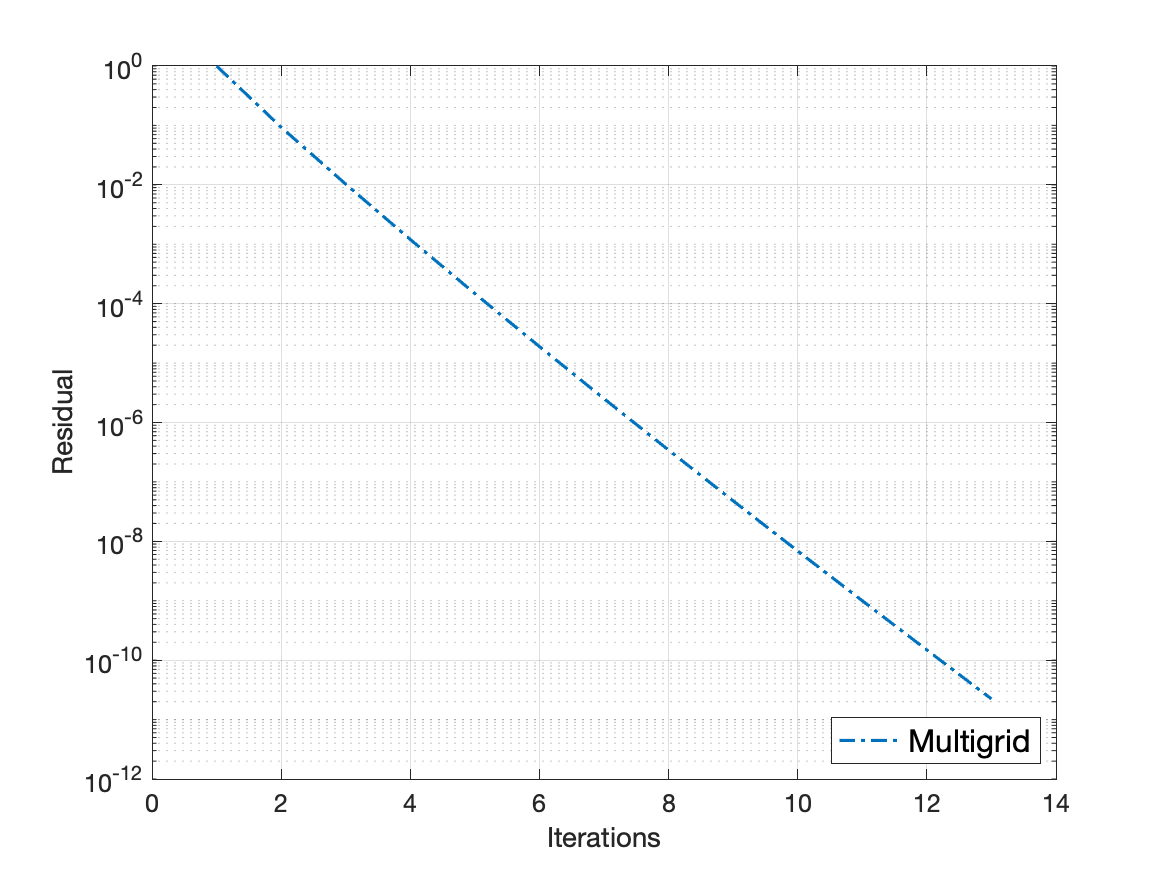
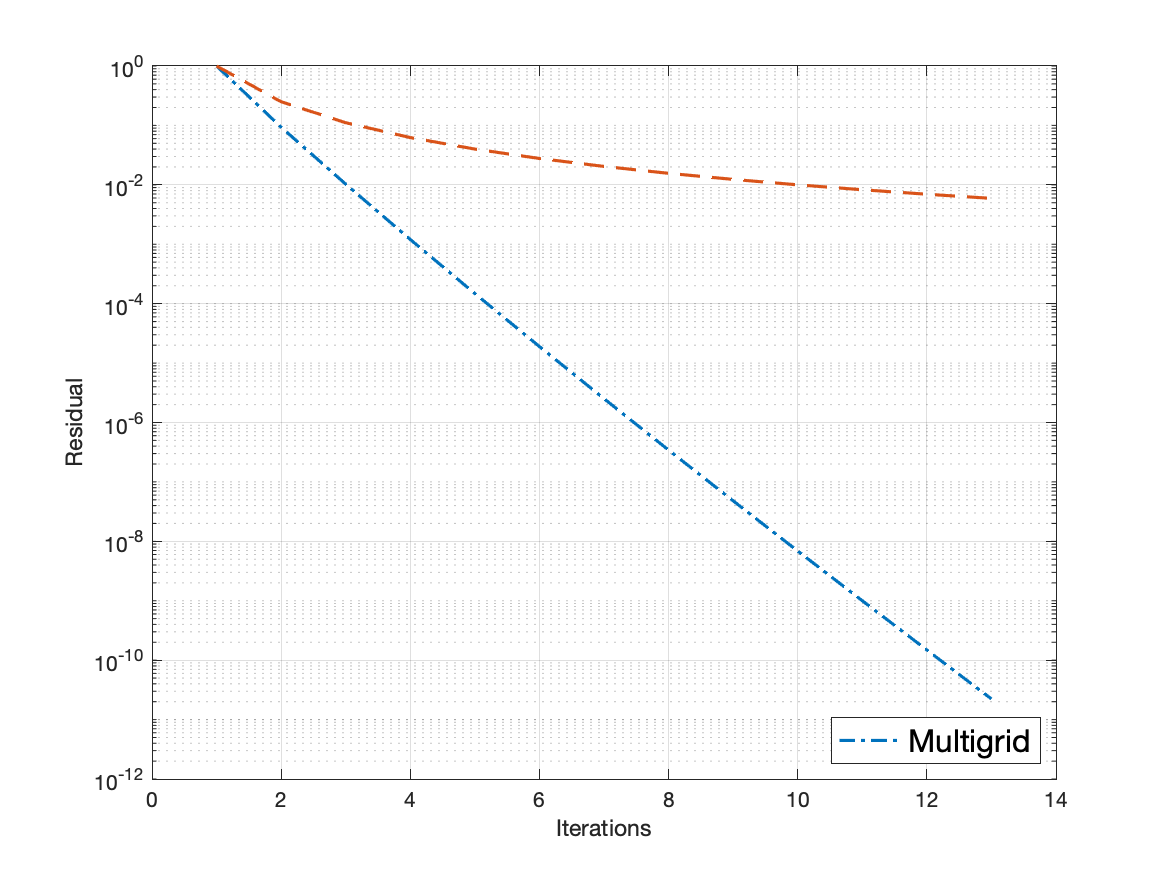
Multigrid timing

diff --git a/multigridTest.m b/multigridTest.m
@@ -1,0 +1,59 @@
+clear
+clc
+close all
+set(groot,'defaultAxesFontSize',12)
+
+u = @(x,y) sin(4*pi*(x + y)) + cos(4*pi*x*y);  % exact solution
+f = @(x,y) -16*(2*sin(4*pi*(x + y)) + cos(4*pi*x*y)*(x^2 + y^2))*pi^2; % RHS
+g = @(x,y) sin(4*pi*(x + y)) + cos(4*pi*x*y);  % boundary conditions
+
+% Tolerance
+epsilon = 1.0E-10;
+
+% Omega for jacobi iterations
+omega = 2/3;
+
+% Maximum iterations
+maxiter = 1000;
+
+% Pre- and post-smoothing amount
+nsmooth = 3;
+
+L = 12;
+
+t = zeros(1,length(L));
+
+for i = 1:L % Testing difference resolutions/recursion depths
+    
+    disp(i)
+
+    l = i; % Recursion depth
+    
+    m=2^l-1; % Resolution
+    
+    U0 = zeros(m*m,1); % Initial guess
+
+    [~,~,F] = constructRhs5(m,f,g); 
+
+    timefun = @() multigrid(U0,F,l,omega,nsmooth,epsilon,maxiter);
+
+    t(i) = timeit(timefun);
+end
+
+%%
+
+refcon = 10^(-3)*(2.^(1:L)-1).^2;
+
+figure
+semilogy(1:L,t,'-o','LineWidth',1.5)
+hold on
+semilogy(1:L,refcon,'--','LineWidth',1.5)
+legend("Multigrid","O(m^2)",'Location','northwest')
+grid on
+xlabel('l')
+ylabel('CPU time (sek)')
+title("CPU time of multigrid")
+
+
+
+    

diff --git a/ex3_b.m b/ex3_b.m
@@ -27,7 +27,7 @@ for L = 2:max_recursions
     m=2^L-1;
 
     % reset U to initial value
-    U = ones(m*m,1);
+    U = zeros(m*m,1);
 
     % Form the right-hand side
     [Xint,Yint,F] = constructRhs5(m,f,g); 
@@ -46,7 +46,7 @@ for L = 2:max_recursions
     iterations_needed(L) = i;  % Save number of iterations needed to reach tolerance level
 end
 
- 
+
 % Plotting figure with residuals
 fig = figure;
 bar(2:L, iterations_needed)

diff --git a/multigrid.m b/multigrid.m
@@ -1,0 +1,17 @@
+function U = multigrid(U,F,l,omega,nsmooth,epsilon,maxiter)
+    
+    m=2^l-1;
+    
+    R = F + Amult(U,m);
+
+    for i=1:maxiter 
+        
+        if(norm(R, 2)/norm(F, 2) < epsilon)
+            break;
+        end
+
+        U = VCycle(U, F, l, omega, nsmooth);
+
+        R = F + Amult(U,m);
+    end
+end
